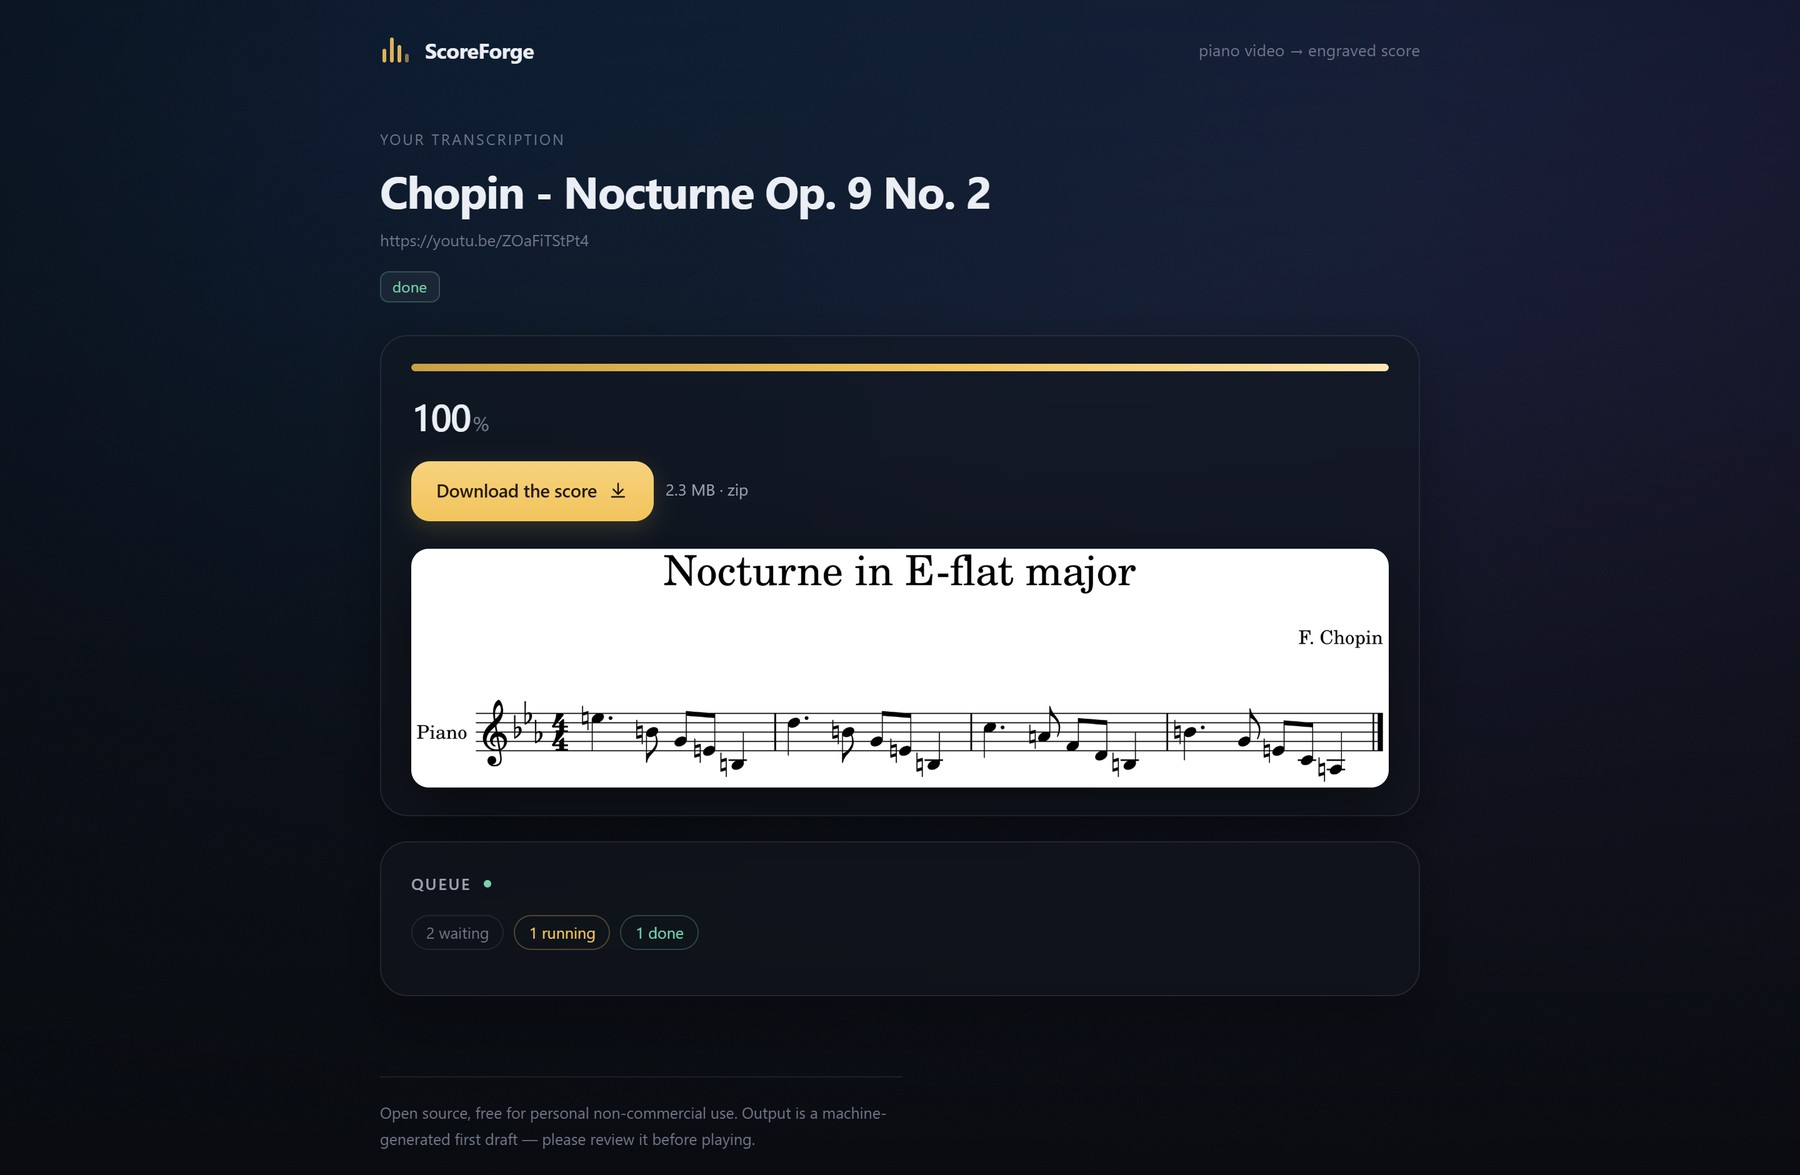
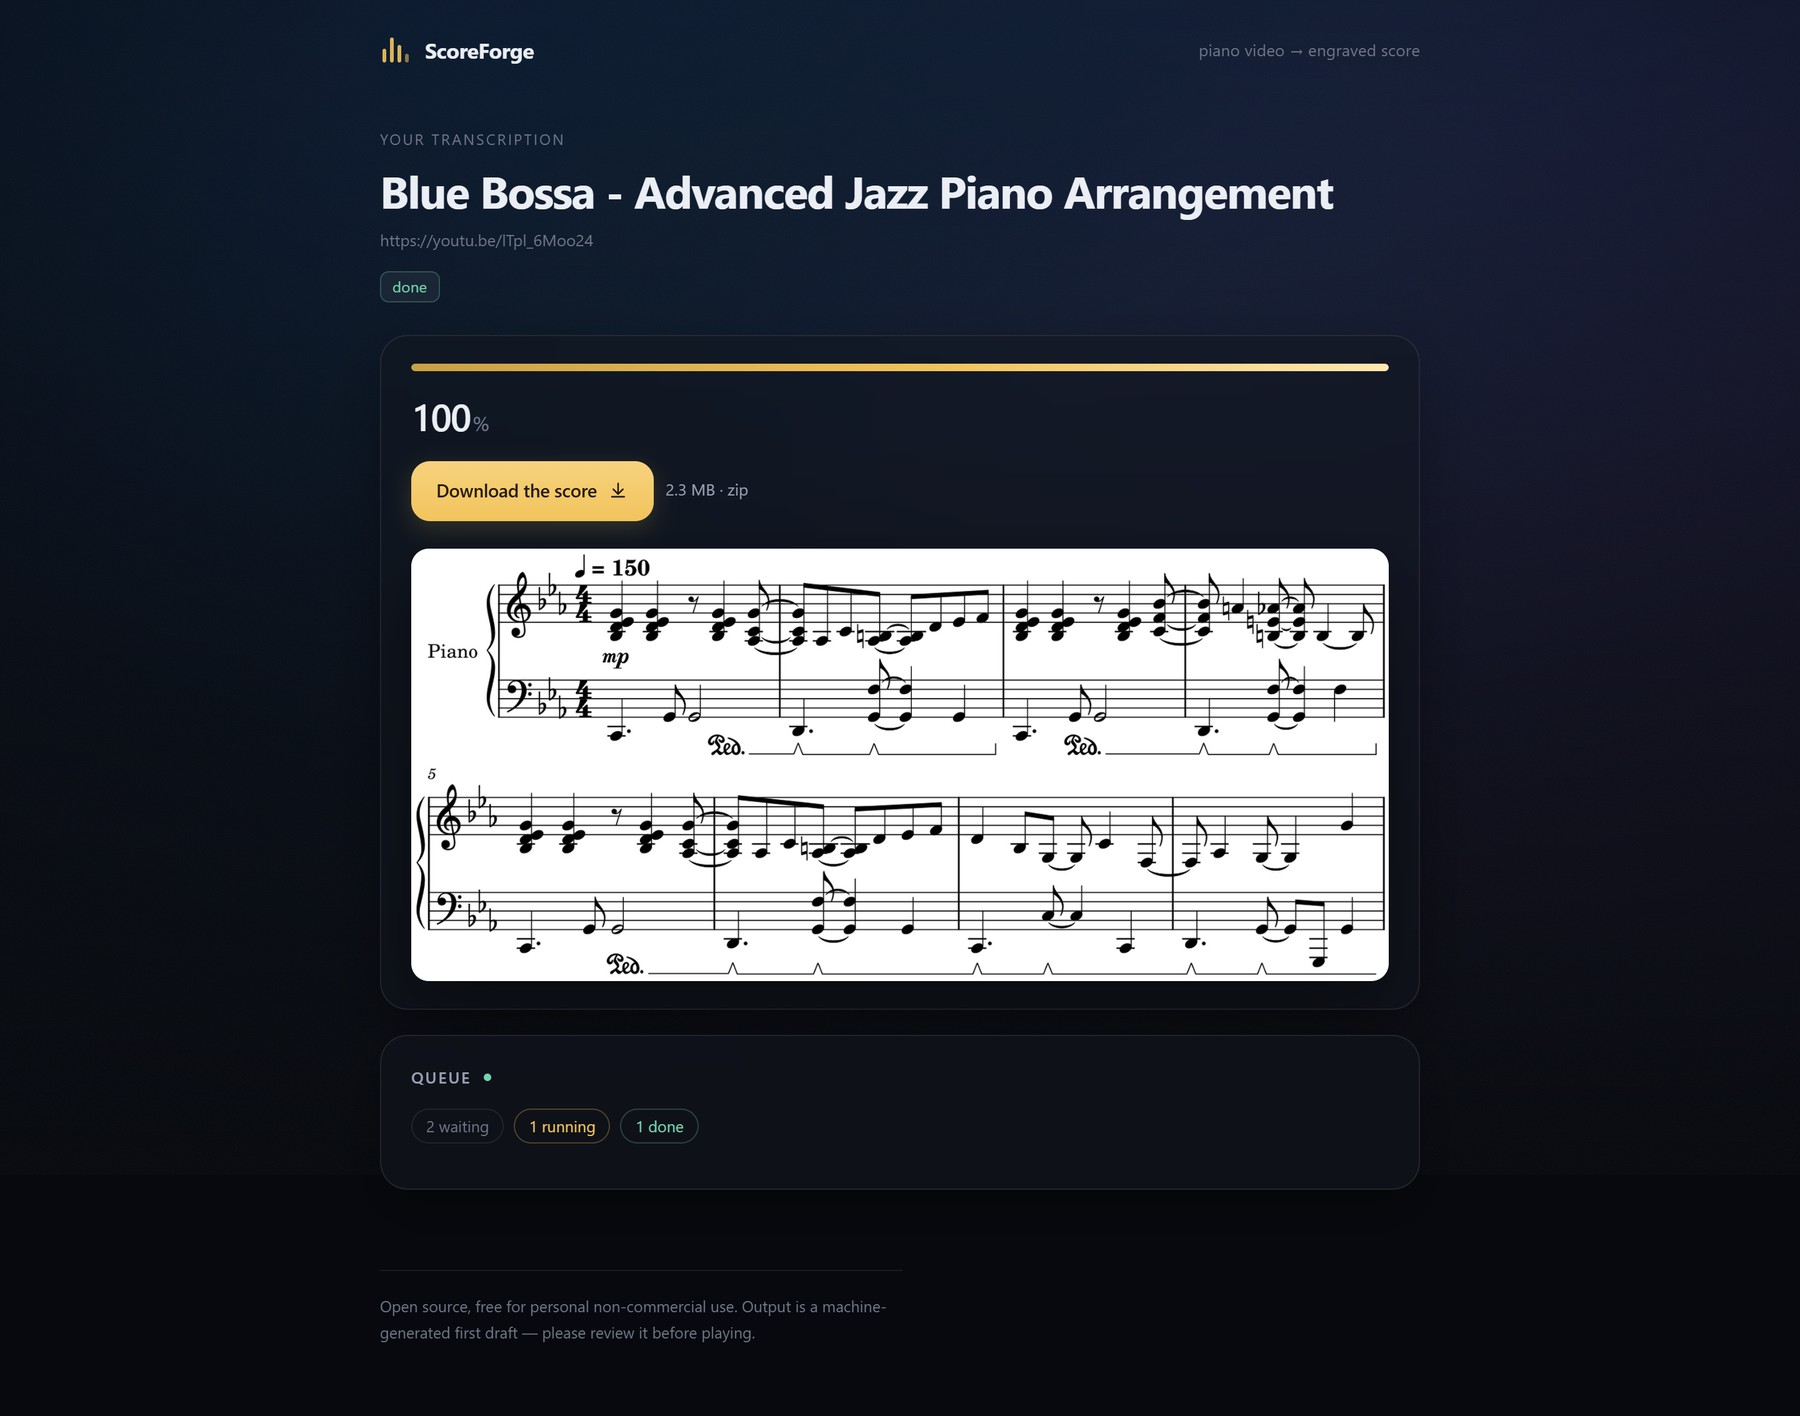
docs(readme): show a real Blue Bossa transcription in the job screenshot

diff --git a/README.md b/README.md
@@ -31,6 +31,10 @@ app, and keeps the intermediate files so you can inspect every step.
 
 ![A finished job with the download button and a page preview](docs/job.jpg)
 
+<sub>A finished job. The preview is the first engraved page of <i>Blue
+Bossa</i>, transcribed from [this
+performance](https://youtu.be/lTpl_6Moo24) — pedalling, dynamics and all.</sub>
+
 ## What you get
 
 | Artifact | Why you want it |
